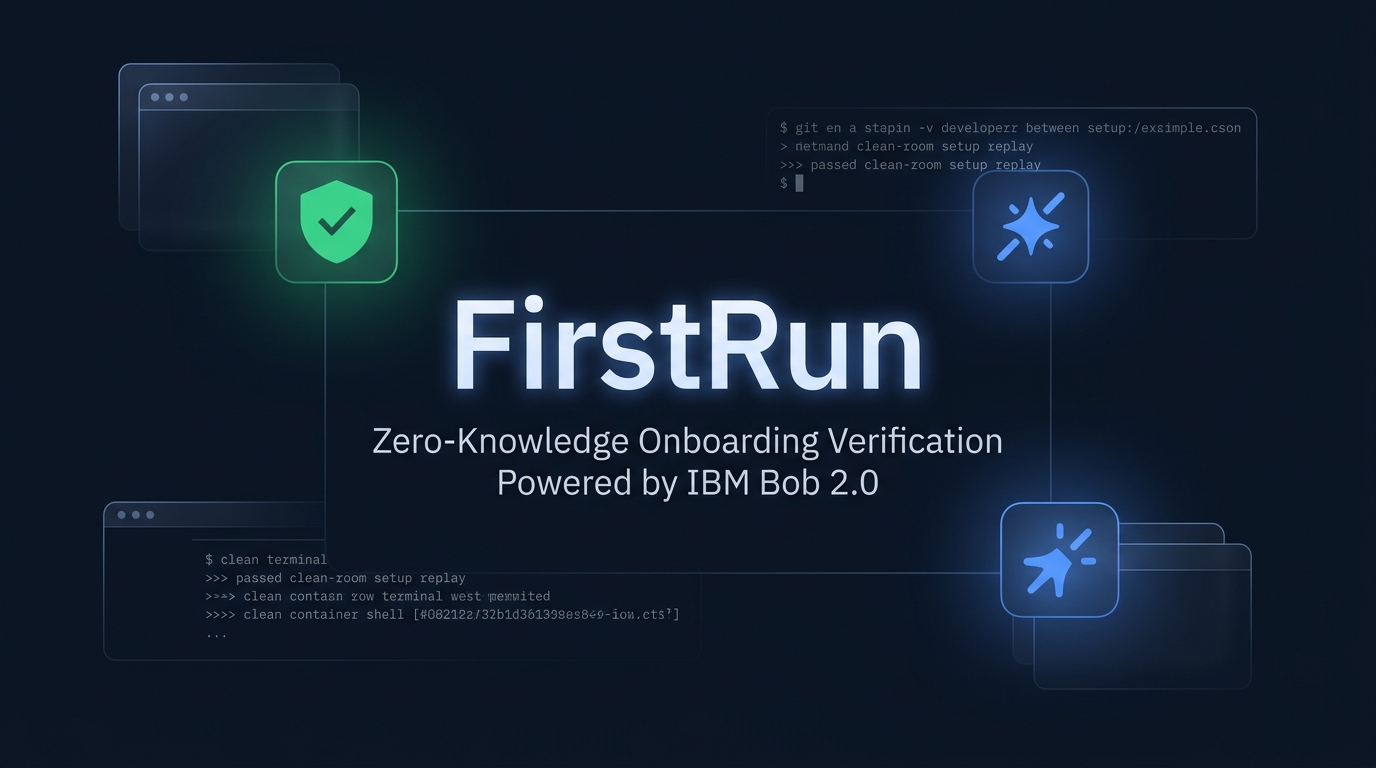
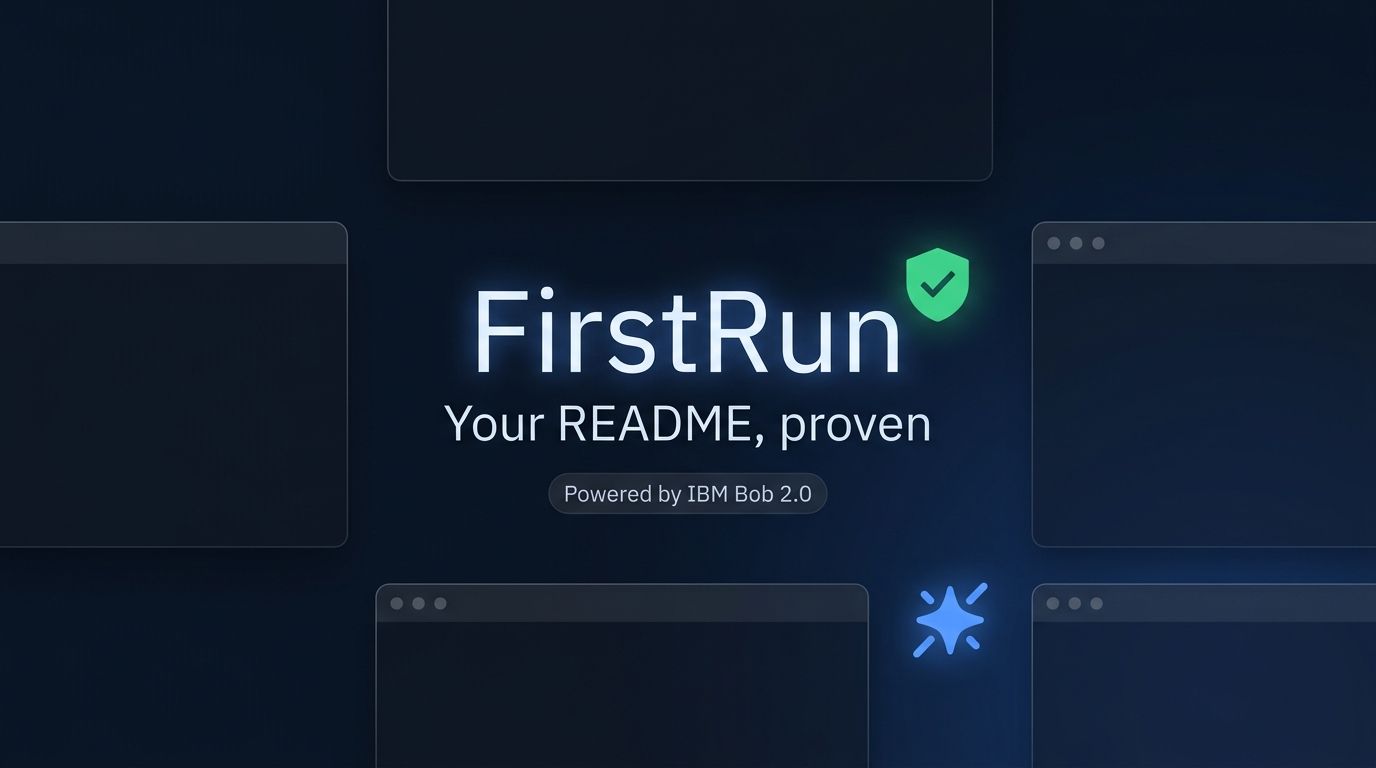
fix(pitch): remove pseudo-text from cover image and update subtitle to 'Your README, proven'

diff --git a/web/public/index.html b/web/public/index.html
@@ -6,7 +6,7 @@
 <title>FirstRun: your README, proven</title>
 <meta name="description" content="FirstRun follows your setup docs on a clean machine like a new hire, fixes what breaks, proves every fix, and hands you a README that works.">
 <meta property="og:title" content="FirstRun: your README, proven">
-<meta property="og:description" content="Zero-knowledge onboarding verification powered by IBM Bob 2.0. Follows your setup docs on a clean machine, fixes what breaks, and replays from zero.">
+<meta property="og:description" content="Your README, proven · Powered by IBM Bob 2.0. Follows your setup docs on a clean machine, fixes what breaks, and replays from zero.">
 <meta property="og:image" content="/cover.jpg">
 <meta name="twitter:card" content="summary_large_image">
 <meta name="twitter:image" content="/cover.jpg">
